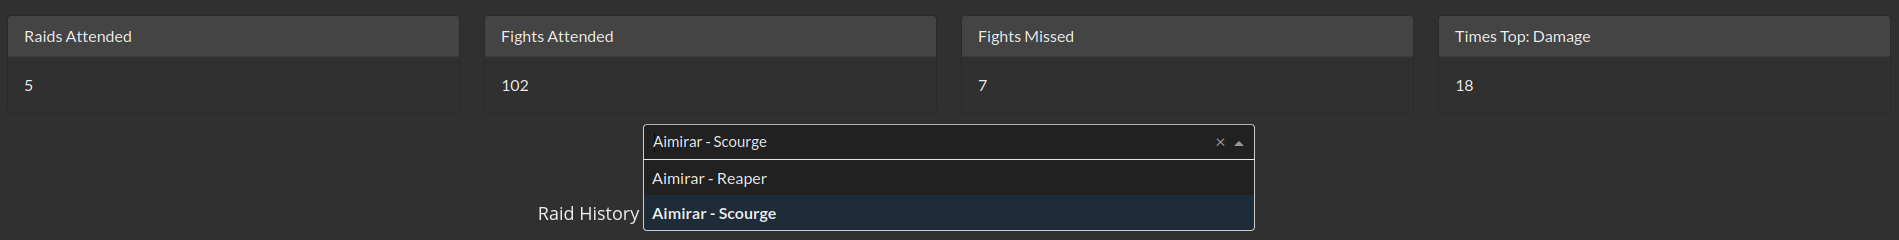
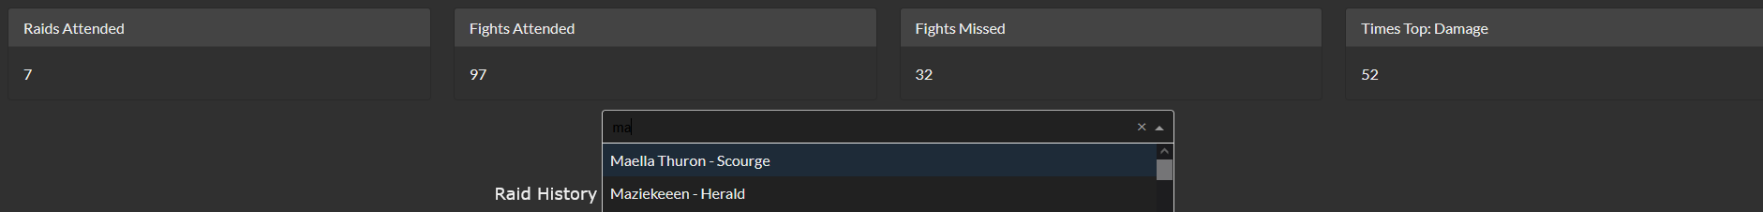
updated screenshots

diff --git a/apps/howto_page.py b/apps/howto_page.py
@@ -21,6 +21,7 @@ img_size[11] = "100%"
 img_size[12] = "80%"
 img_size[13] = "80%"
 img_size[14] = "80%"
+img_size[15] = "70%"
 
 img_top_offset = {}
 img_top_offset[1] = "2.5%"
@@ -37,6 +38,7 @@ img_top_offset[11] = "20%"
 img_top_offset[12] = "10%"
 img_top_offset[13] = "25%"
 img_top_offset[14] = "20%"
+img_top_offset[15] = "2.5%"
 
 layout = [
     html.H2('How to read the Records of Valhalla', style={'text-align': 'center'}),
@@ -118,7 +120,11 @@ layout = [
                     " running and stats sharing enabled. Damage In includes the actual damage taken as well as damage absorbed by barrier. The graph shows times top / attendance at the beginning of each bar. In the middle of each bar, the number of deaths is shown to add some context. The number at the end of each bar is the average damage taken per second of being active in a fight, which is the time of first damage dealt or taken until death. The number behind each bar is the total damage in, which will naturally be higher for people who attended more fights. ",
                     html.Br(),
                     "Seeing everyone's performance allows you to compare yourself to the top performing players. You can also see how you are doing compared to others in your class, using the color coding or profession names. If you want to see only players of specific classes, you can enable or disable them by clicking on the corresponding legend items. You can also view only players of a single class by double clicking the corresponding legend item.",
-                ])
+                ]),
+                dbc.Col(
+                    html.Div(html.Img(id={'type': 'image', 'index': 15}, src="assets/dmg_in.png", style={'width': img_size[15]}, className="bordered-img"),
+                             id={'type': 'image-div', 'index': 15}, style={}),
+                    className="centered-col")
             ),
 
             dbc.Row([
@@ -154,7 +160,7 @@ layout = [
             ]),
 
             dbc.Row([
-                dbc.Col("At the top, you see a summary table of how many raids and how many fights this character attended, how many fights you missed if you weren’t there for a whole raid, and how often you achieved top stats in a chosen stat. Below that is a drop down menu showing all of your characters that were present for at least one raid. "),
+                dbc.Col("At the top, you see a summary table of how many raids and how many fights this character attended, how many fights you missed if you weren’t there for a whole raid, and how often you achieved top stats in a chosen stat. Below that is a drop down menu showing all characters that were present for at least one raid. You can also type to search for a specific character. "),
                 dbc.Col(
                     html.Div(html.Img(id={'type': 'image', 'index': 11}, src="assets/profile_overview.png", style={'width': img_size[11]}, className="bordered-img"),
                              id={'type': 'image-div', 'index': 11}, style={}),
